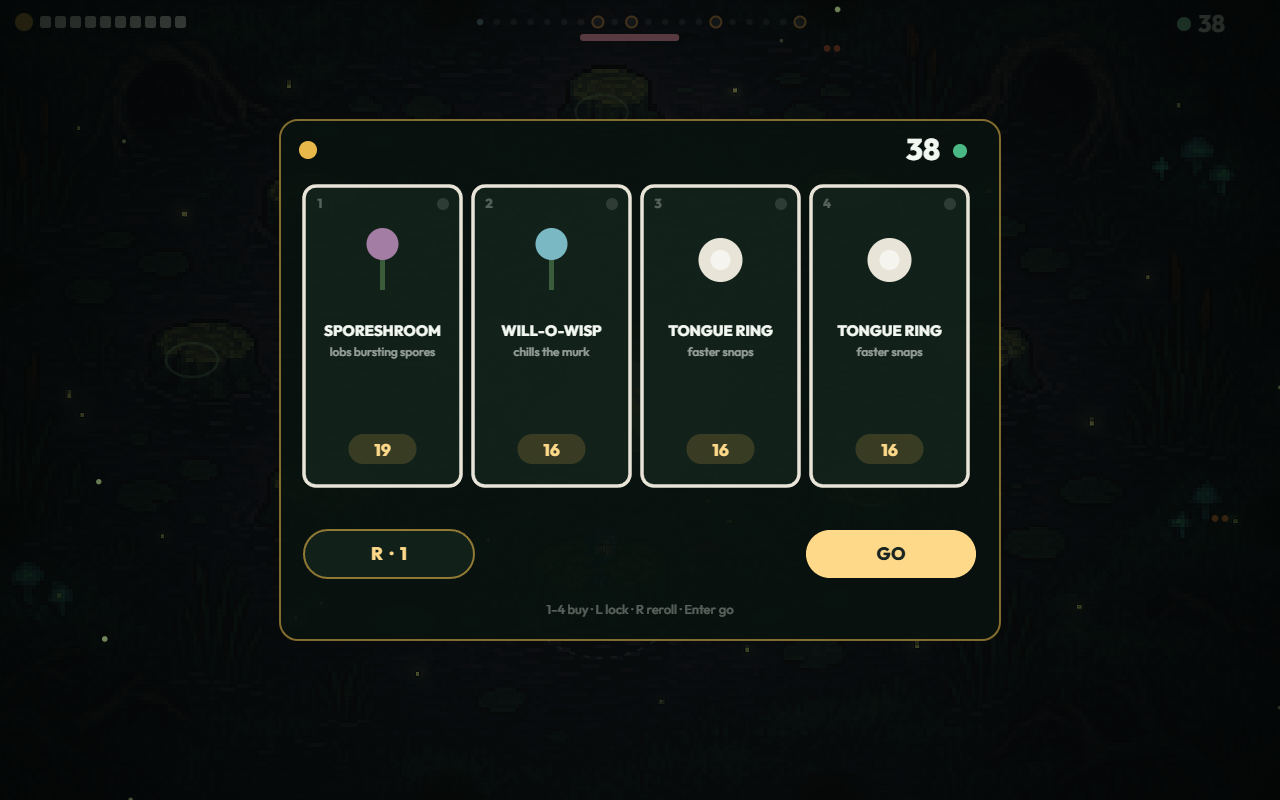
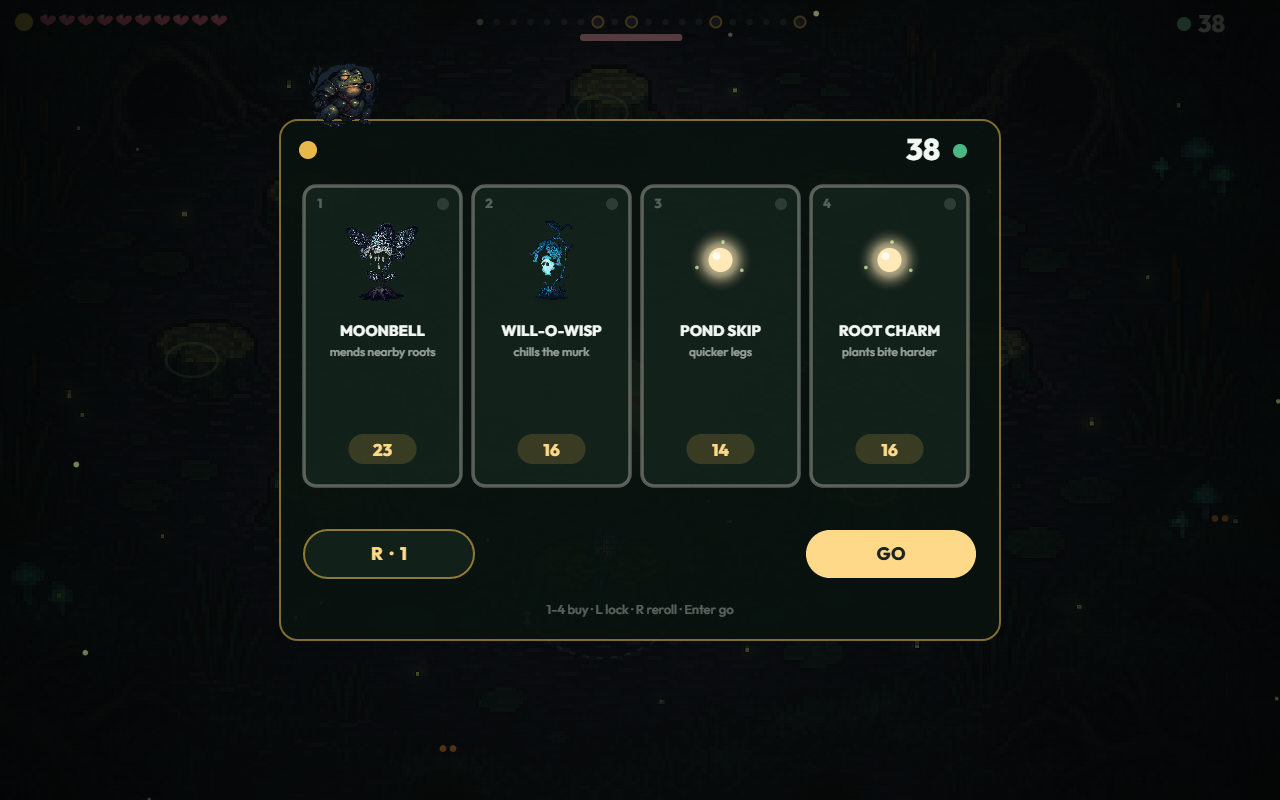
VISUAL_BAR rounds 2-3: world readability + painted frogpick + v2 pack notes
Teal night tint (purple retired) + center-light vignette, hot-pink telegraphs,
glowing enemy eyes, frog lantern-glow, frogpick on the painted backdrop,
settings light pool. Scores: title 38, frogpick/settings 30, shop/build 29,
levelup 28, world 27, pause 26 (gpt-4o fallback critic, noisy). v2 reference
pack transcribed to docs/refs/REFERENCE_PACK_V2_NOTES.md (image needs Ian's
download). 12/12 tests, tsc clean.

diff --git a/src/render.ts b/src/render.ts
@@ -240,7 +240,14 @@ export function draw(ctx: CanvasRenderingContext2D, g: Game, canvasW: number, ca
 // world-state lighting: build = warm dusk, wave = cold night (feat #3, no banners)
 function drawWorldTint(ctx: CanvasRenderingContext2D, g: Game) {
   const d = g.worldDusk; // 0 build → 1 wave
-  ctx.fillStyle = `rgba(${Math.round(60 - d * 45)}, ${Math.round(42 - d * 26)}, ${Math.round(10 + d * 40)}, ${0.10 + d * 0.10})`;
+  // night is deep teal-green (REF_02), never blue-purple; build keeps a warm dusk
+  ctx.fillStyle = `rgba(${Math.round(60 - d * 52)}, ${Math.round(42 - d * 6)}, ${Math.round(10 + d * 20)}, ${0.10 + d * 0.08})`;
+  ctx.fillRect(0, 0, ARENA_W, ARENA_H);
+  // lighting depth: the heartbloom holds the center, edges fall to night
+  const vig = ctx.createRadialGradient(ARENA_W / 2, ARENA_H / 2, 260, ARENA_W / 2, ARENA_H / 2, 880);
+  vig.addColorStop(0, 'rgba(2, 6, 5, 0)');
+  vig.addColorStop(1, `rgba(2, 6, 5, ${0.28 + d * 0.14})`);
+  ctx.fillStyle = vig;
   ctx.fillRect(0, 0, ARENA_W, ARENA_H);
 }
 
@@ -311,9 +318,9 @@ function drawEnemies(ctx: CanvasRenderingContext2D, g: Game) {
   for (const e of g.enemies) {
     if (!e.alive) continue;
     if (e.telegraph > 0) {
-      // ground glyph telegraph (research: Brotato red X)
+      // ground glyph telegraph — hot pink, the reserved threat accent
       const a = 1 - e.telegraph / 0.9;
-      ctx.strokeStyle = `rgba(255, 80, 60, ${0.35 + a * 0.5})`;
+      ctx.strokeStyle = `rgba(255, 90, 150, ${0.35 + a * 0.5})`;
       ctx.lineWidth = 3.5;
       const r = 12 + a * 6;
       ctx.beginPath();
@@ -331,6 +338,20 @@ function drawEnemies(ctx: CanvasRenderingContext2D, g: Game) {
     drawSpriteOr(ctx, `enemy_${e.def.kind}`, x, y, r * 3.4, () => {
       drawEnemyVector(ctx, e.def.kind, x, y, r, e.hitFlash, wob, g.time);
     });
+    // glowing eyes punch through the murk (readability law: every threat reads instantly)
+    if (r <= 18 && !e.def.boss) {
+      const blink = Math.sin(g.time * 2.6 + e.x * 0.09 + e.y * 0.07) > -0.88 ? 1 : 0.15;
+      const ey = y - r * 0.18;
+      for (const s of [-1, 1]) {
+        const ex = x + s * r * 0.36;
+        const eg = ctx.createRadialGradient(ex, ey, 0.5, ex, ey, 6.5);
+        eg.addColorStop(0, `rgba(255, 120, 150, ${0.85 * blink})`);
+        eg.addColorStop(1, 'rgba(255, 120, 150, 0)');
+        ctx.fillStyle = eg;
+        ctx.beginPath(); ctx.arc(ex, ey, 6.5, 0, Math.PI * 2); ctx.fill();
+        dot(ctx, ex, ey, 2, `rgba(255, 170, 185, ${blink})`);
+      }
+    }
     if (e.isElite) {
       ctx.strokeStyle = '#e8a04a';
       ctx.lineWidth = 2.5;
@@ -535,6 +556,12 @@ function drawFrogBody(ctx: CanvasRenderingContext2D, f: Frog, x: number, y: numb
     ctx.fillRect(2, -3.5, 9, 7);
     ctx.restore();
   }
+  // lantern under-glow: the frog carries a little warmth through the night
+  const fgGlow = ctx.createRadialGradient(x, y - hop, 4, x, y - hop, 44);
+  fgGlow.addColorStop(0, 'rgba(255, 224, 150, 0.16)');
+  fgGlow.addColorStop(1, 'rgba(255, 224, 150, 0)');
+  ctx.fillStyle = fgGlow;
+  ctx.beginPath(); ctx.arc(x, y - hop, 44, 0, Math.PI * 2); ctx.fill();
   drawSpriteOr(ctx, `frog_${f.def.id}`, x, y - hop, 52, () => {
     // team rim
     ctx.strokeStyle = P_RIM[f.idx];
@@ -1184,7 +1211,12 @@ function drawPause(ctx: CanvasRenderingContext2D, g: Game) {
     return;
   }
 
-  // settings view
+  // settings view — a warm pool of light holds the rows
+  const sg2 = ctx.createRadialGradient(cx, cy + 30, 40, cx, cy + 30, 360);
+  sg2.addColorStop(0, 'rgba(255, 226, 150, 0.10)');
+  sg2.addColorStop(1, 'rgba(255, 226, 150, 0)');
+  ctx.fillStyle = sg2;
+  ctx.beginPath(); ctx.arc(cx, cy + 30, 360, 0, Math.PI * 2); ctx.fill();
   ctx.fillStyle = '#f2f7f1';
   ctx.font = '900 46px Outfit, system-ui, sans-serif';
   ctx.fillText('SETTINGS', cx, cy - 52);
@@ -1286,7 +1318,9 @@ function drawTitle(ctx: CanvasRenderingContext2D, g: Game) {
 
 function drawFrogPick(ctx: CanvasRenderingContext2D, g: Game) {
   if (!arenaCanvas) arenaCanvas = buildArena();
-  ctx.drawImage(arenaCanvas, 0, 0);
+  const paintedArena = sprite('arena_backdrop');
+  if (paintedArena) ctx.drawImage(paintedArena, 0, 0, ARENA_W, ARENA_H);
+  else ctx.drawImage(arenaCanvas, 0, 0);
   hushBackdrop(ctx);
   const stage = g.frogPickStage; // 0 = P1 frog, 1 = players/P2, 2 = danger
   ctx.fillStyle = '#f2f7f1';

diff --git a/docs/refs/REFERENCE_PACK_V2_NOTES.md b/docs/refs/REFERENCE_PACK_V2_NOTES.md
@@ -1,0 +1,54 @@
+# MYSTIC SWAMP — Reference Pack v2 (transcribed)
+
+Ian pasted an EXPANDED v2 of the reference pack in chat on 2026-07-07 evening.
+**The image itself is NOT on disk yet** — Ian: download it and drop it at
+`docs/refs/REFERENCE_PACK_V2.png` (chat paste can't be saved from the session).
+Everything actionable in it is transcribed below so work can proceed.
+
+## Concept notes (verbatim from the sheet — these are ART LAW)
+- top-down 2D arena survival
+- frog is the player
+- swamp theme: glow, mystery, rot
+- low pixel density, heavy dithering
+- natural, organic shapes
+- **glow in small clusters, NOT soft blur** ← current render glows (lantern
+  under-glow, orb charms, lotus bloom) are soft radial blurs; migrate them to
+  clustered pixel-dot glows next art round
+
+## What v2 adds over v1 (docs/refs/REFERENCE_PACK.png)
+- **Frog animations**: idle ×6, tongue attack, blink, jump, CROAK (new), + a
+  bottom strip of in-between frames w/ ripple + spark accents
+- **Enemy animations**: idle / move / SPAWN (new — smoke-cloud emergence) /
+  hit / defeated (dissolve to ripples)
+- **Enemy VARIANTS (palette-swap family, exactly the VISUAL_BAR swarm plan)**:
+  BLOBBIT (base), SPIKEBLOB, MUSHGLOOM (mushroom cap), FLOATLING, WISPOD
+- **Tiles & terrain (named)**: water 1, water 2, deep water; lily pad, mossy
+  pad, flower pad, mud; reeds, cattails, mushrooms, rock, fog
+- **Light sources**: lotus flower, firelight mushroom, will-o'-wisp, glow
+  reeds, LANTERN FROG SHRINE (statue prop — strong world-building anchor)
+- **Effects**: firefly, tongue impact, water ripple, glow (lotus), splash,
+  spore drift
+- **Weapons (8 swords)**: Lily Blade (balanced), Reed Katana (fast), Moss
+  Cleaver (heavy), Bone Slicer (bleed), Glow Lotus (magic), Toxic Bane
+  (poison), Toxic Bane variant (point?), Wisp Edge
+- **ITEMS & PICKUPS (fills the missing item-icon slot in the shop!)**: swamp
+  heart, glow seed, moss armor, spirit orb, toxic vial, bone shard, lotus
+  petal, reed spear, frog charm, mushroom cap, sludge core, dried tadpole,
+  golden egg, cursed relic
+- **Environment props**: stone shrine, broken pillar, water log, skull rock,
+  hanging lantern, rune stone, root arch, bubbling mud
+- **UI/HUD example**: pink hearts + wave track w/ skull + essence 326 (matches
+  current HUD language), + PLAYER portrait chip, cooldown number chip, buff
+  icons (arrow/shield/lotus), debuff icons (pink flame/skull)
+- **Icon set 32×32** (larger set than v1's 34×34)
+- **Font example**: full A-Z + 0-9 + punctuation ("WAVE 7 / UPGRADE / SWAMP
+  BLESSING" style)
+- **Mood reference thumbnails** (bottom-right corner)
+
+## How to use next session
+1. Get REFERENCE_PACK_V2.png from Ian's download into docs/refs/.
+2. gen_art.py round 2: item icons (shop cards currently use glow-orb
+   placeholders), enemy variants (palette-swap swarm), props, shrine.
+3. Re-style glows to clustered-dot per the art law above.
+4. Weapon sprites map to the future GOAL_PAPERDOLL system — don't build gear
+   art before that goal's spike gate.
